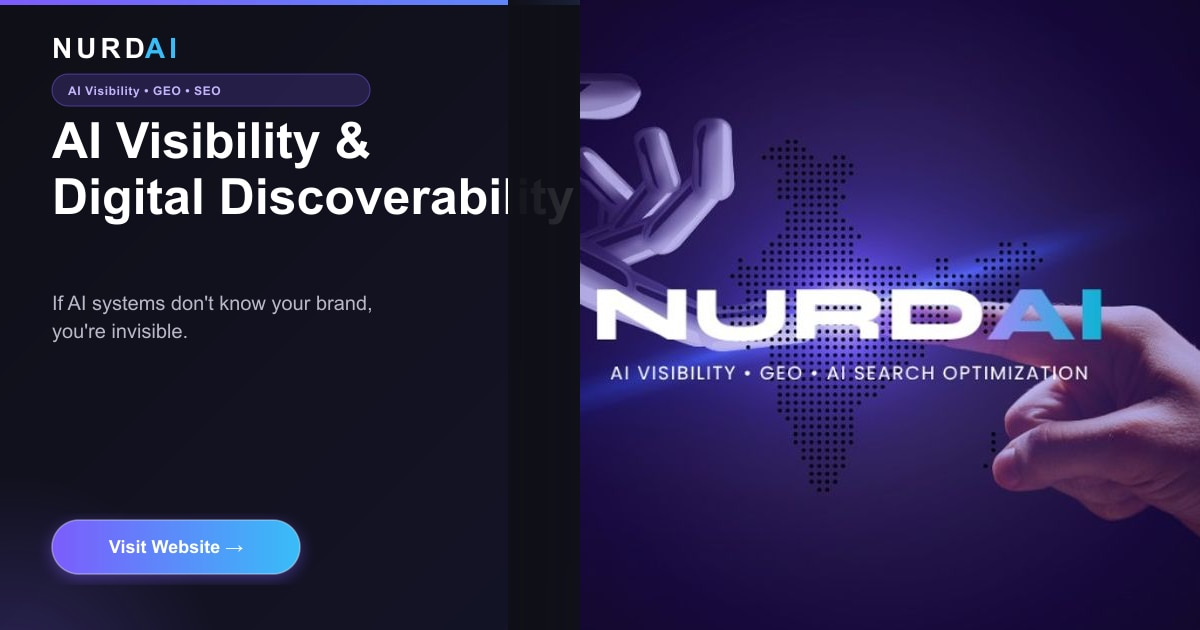
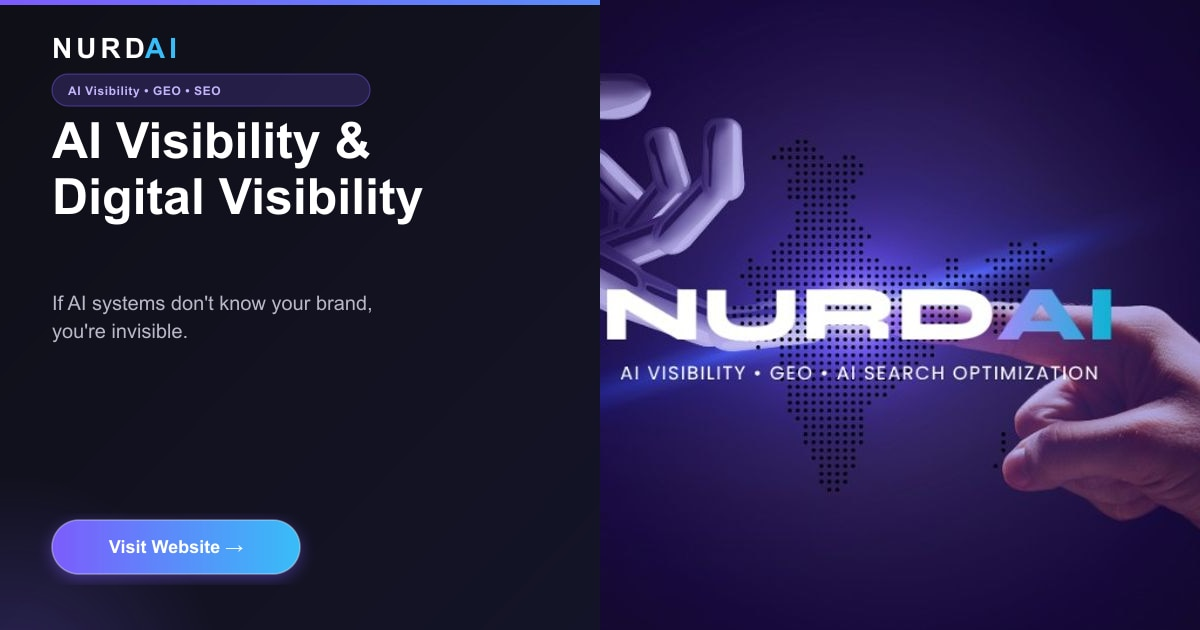
Shorten EN meta/OG descriptions and remove OG image fade overlay.
Clean split between text panel and hero art so headline text stays fully readable.

diff --git a/en/index.html b/en/index.html
@@ -10,7 +10,7 @@
 
 <!-- Primary SEO -->
 <title>AI Visibility & Digital Strategy Consultant | Nurdai</title>
-<meta name="description" content="Your brand, recommended by both humans and AI. AI visibility consulting, SEO, Generative Engine Optimization (GEO) and digital discoverability strategy — all in one place.">
+<meta name="description" content="AI visibility, GEO and SEO consulting. Make your brand discoverable on ChatGPT, Perplexity and Google AI — Nurdai.">
 <meta name="keywords" content="AI visibility, digital discoverability, SEO consulting, content strategy, GEO, Generative Engine Optimization, ChatGPT optimization">
 <meta name="author" content="Nurdan — Nurdai">
 <link rel="canonical" href="https://nurdai.com/en/">
@@ -22,7 +22,7 @@
 <!-- Open Graph -->
 <meta property="og:type" content="website">
 <meta property="og:title" content="Nurdai — AI Visibility & Digital Discoverability">
-<meta property="og:description" content="If AI systems don't know your brand, you're invisible. AI visibility consulting to make your brand discoverable in the age of generative AI.">
+<meta property="og:description" content="If AI systems don't know your brand, you're invisible. AI visibility consulting for ChatGPT, Perplexity and Google AI.">
 <meta property="og:url" content="https://nurdai.com/en/">
 <meta property="og:image" content="https://nurdai.com/assets/images/og-social-en.jpg">
 <meta property="og:image:width" content="1200">
@@ -30,7 +30,7 @@
 <meta property="og:image:alt" content="Nurdai — AI Visibility & Digital Discoverability">
 <meta name="twitter:card" content="summary_large_image">
 <meta name="twitter:title" content="Nurdai — AI Visibility & Digital Discoverability">
-<meta name="twitter:description" content="If AI systems don't know your brand, you're invisible. AI visibility consulting to make your brand discoverable in the age of generative AI.">
+<meta name="twitter:description" content="If AI systems don't know your brand, you're invisible. AI visibility consulting for ChatGPT, Perplexity and Google AI.">
 <meta name="twitter:image" content="https://nurdai.com/assets/images/og-social-en.jpg">
 <meta property="og:locale" content="en_US">
 <meta property="og:locale:alternate" content="tr_TR">